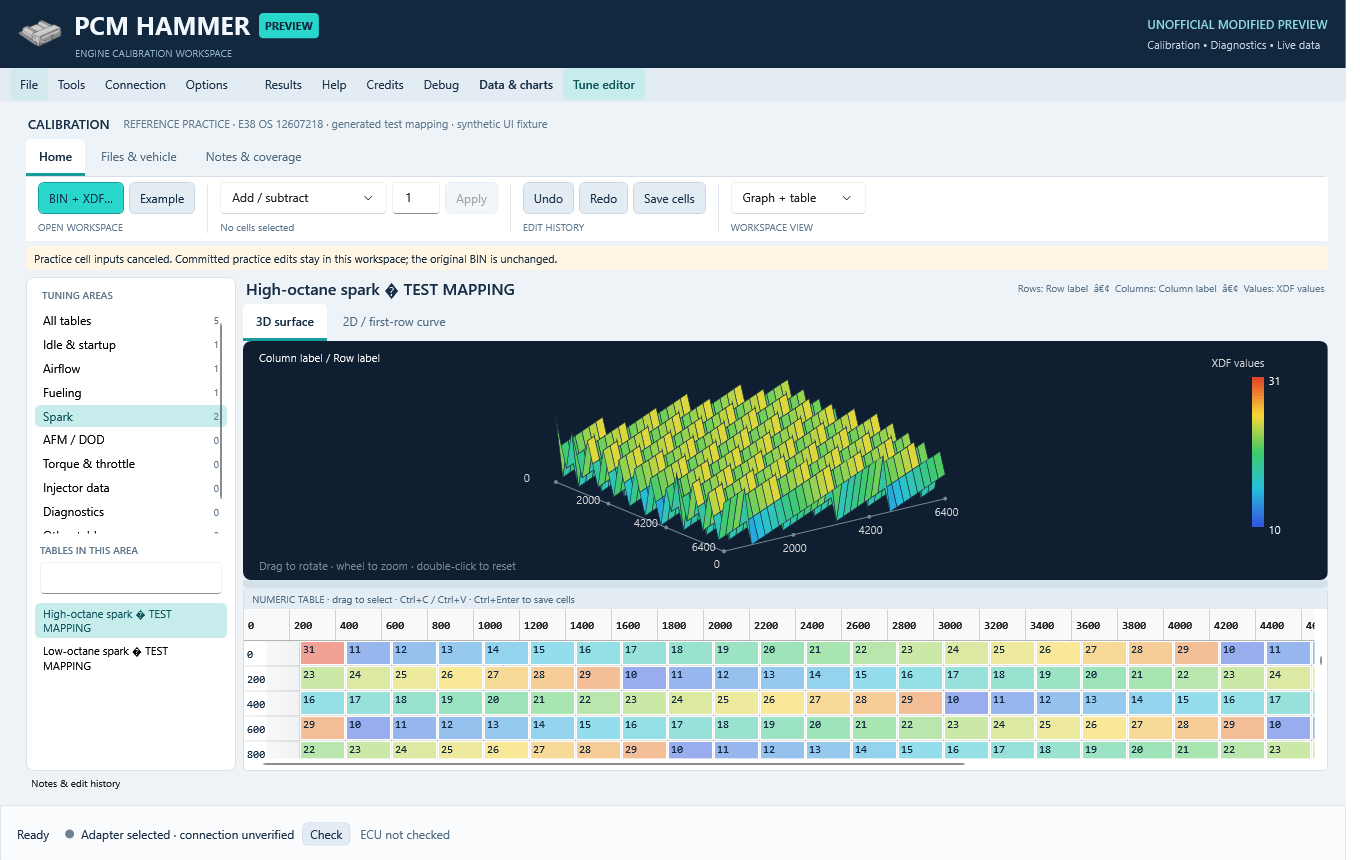
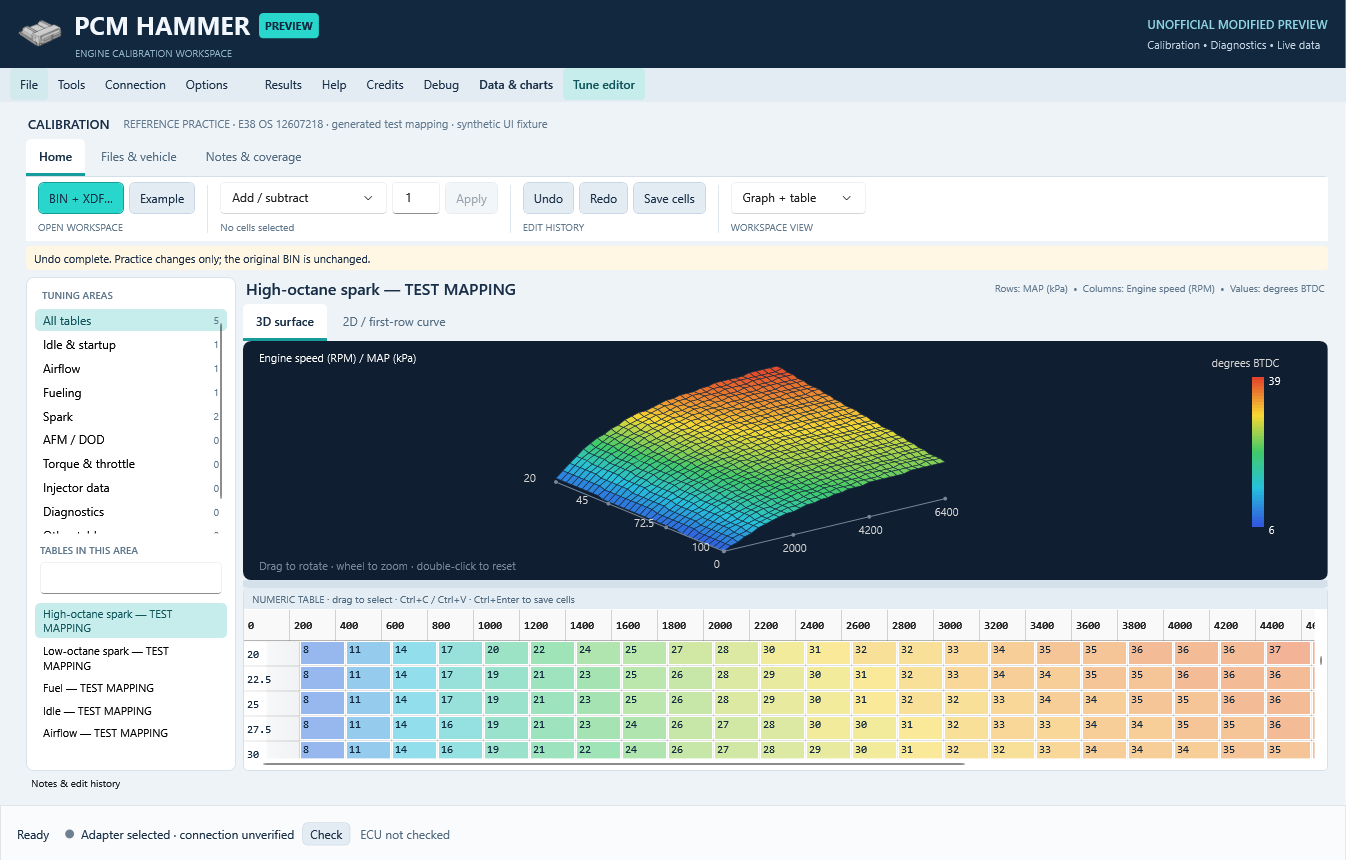
Smooth generated spark previews and refresh workspace screenshot

diff --git a/Apps/LoggingUiChecks/Program.cs b/Apps/LoggingUiChecks/Program.cs
@@ -144,6 +144,7 @@ internal static class Program
                 Check(tune.CanEdit&&!tune.CanExport&&tune.IsDemo,"Demo grid editable with export and apply disabled");
                 string demoOriginal=tune.Cells[0].Text;
                 Check(tune.Surface?.Rows==9&&tune.Surface.Columns==16&&tune.Surface.ColumnLabels[1]=="400"&&tune.Surface.RowLabels[0]=="20","Spark table has RPM and MAP axes and a complete 3D surface");
+                Check(SmoothSpark(tune.Surface!),"Generated spark preview rises smoothly with RPM and decreases with load without repeating peaks");
                 tune.Cells[0].Text="9";tune.CommitCells();
                 Check(tune.Cells[0].Text=="9"&&tune.Journal.Count>0,"Demo edits populate the change journal");
                 tune.Undo();Check(tune.Cells[0].Text==demoOriginal,"Editor Undo restores prior value");
@@ -205,6 +206,7 @@ internal static class Program
                 Check(tune.Fields.Count==5&&tune.Cells.Count==1089&&tune.TableRows.Count==33&&tune.ColumnCount==33,"Synthetic fixture opens five distinct practice entries and starts on the main spark map");
                 Check(tune.TuneIdentity.Contains("12607218")&&tune.CanEdit&&tune.IsReference&&tune.IsDemo&&!tune.CanExport&&!grid.IsReadOnly,"XDF example enables practice cell editing without enabling vehicle Apply or BIN export");
                 Check(tune.Surface?.Values.Length==1089&&tune.Curve.Count==33,"Imported spark data reaches the 3D surface and first-row curve");
+                Check(SmoothSpark(tune.Surface!)&&tune.Surface!.RowLabels[0]=="20"&&tune.Surface.RowLabels[32]=="100"&&tune.Surface.ColumnLabels[32]=="6400","Generated XDF spark preview has a smooth vehicle-like shape and coherent RPM/MAP axes");
                 var high=tune.SelectedField;var highOriginal=tune.Cells[0].Text;
                 tune.SetSelection(new[]{0,1,33,34});tune.SelectedTool="Add / subtract";tune.ToolAmount="1";tune.ApplySelectionTool();
                 Check(tune.Cells[0].Text!=highOriginal&&tune.Journal.Any(n=>n.Contains("Names, axes")),"Bulk practice edits update imported cells while preserving import notes");
@@ -287,19 +289,33 @@ internal static class Program
         var definition=new CalibrationDefinition {Name="Synthetic UI fixture only",Osid=12607218,ImageSize=original.Length,OsSha256=CalibrationEditor.Hash(original,os.Start,os.Length),
             Fields={new CalibrationField {Id="fixture",Name="Synthetic bytes",Address=address,Rows=64,Columns=64,Storage="u8",Minimum=0,Maximum=255}}};
         var editor=new CalibrationEditor(original,definition,new QuietLogger());
-        editor.Edit(editor.Definition.Fields[0],Enumerable.Range(0,4096).Select(i=>(double)(10+i%20)).ToArray(),"Generated test samples");
-        byte[] image=editor.Export();
+        var generated=Enumerable.Range(0,4096).Select(i=>(double)(10+i%20)).ToArray();
         var header=new XElement("XDFHEADER",new XElement("deftitle","12607218 synthetic fixture"),new XElement("BASEOFFSET",new XAttribute("offset","0"),new XAttribute("subtract","0")));
         foreach(var pair in new[]{(0,"Spark"),(1,"Fuel"),(2,"Idle"),(3,"Airflow")})header.Add(new XElement("CATEGORY",new XAttribute("index",pair.Item1),new XAttribute("name",pair.Item2)));
         var root=new XElement("XDFFORMAT",header);int next=address;
-        foreach(var map in new[]{("High-octane spark � TEST MAPPING",33,33,1),("Low-octane spark � TEST MAPPING",33,33,1),("Fuel � TEST MAPPING",33,17,2),("Idle � TEST MAPPING",17,1,3),("Airflow � TEST MAPPING",33,1,4)})
+        foreach(var map in new[]{("High-octane spark — TEST MAPPING",33,33,1),("Low-octane spark — TEST MAPPING",33,33,1),("Fuel — TEST MAPPING",33,17,2),("Idle — TEST MAPPING",17,1,3),("Airflow — TEST MAPPING",33,1,4)})
         {
-            XElement Axis(string id,int count)=>new XElement("XDFAXIS",new XAttribute("id",id),Enumerable.Range(0,count).Select(i=>new XElement("LABEL",new XAttribute("index",i),new XAttribute("value",i*200))));
+            bool spark=map.Item4==1;
+            if(spark)
+                for(int r=0;r<map.Item2;r++)for(int c=0;c<map.Item3;c++)
+                    generated[next-address+r*map.Item3+c]=Math.Round(TuneEditorViewModel.DemoSparkAdvance(c*200,20+80.0*r/(map.Item2-1))-(map.Item1.StartsWith("Low-octane")?4:0));
+            XElement Axis(string id,int count)=>new XElement("XDFAXIS",new XAttribute("id",id),new XElement("units",spark?(id=="x"?"Engine speed (RPM)":"MAP (kPa)"):"Sample index"),Enumerable.Range(0,count).Select(i=>new XElement("LABEL",new XAttribute("index",i),new XAttribute("value",spark&&id=="y"?20+80.0*i/(count-1):i*200))));
             root.Add(new XElement("XDFTABLE",new XElement("title",map.Item1),new XElement("CATEGORYMEM",new XAttribute("index","0"),new XAttribute("category",map.Item4)),Axis("x",map.Item3),Axis("y",map.Item2),
-                new XElement("XDFAXIS",new XAttribute("id","z"),new XElement("EMBEDDEDDATA",new XAttribute("mmedaddress","0x"+next.ToString("X")),new XAttribute("mmedelementsizebits","8"),new XAttribute("mmedtypeflags","0x05"),new XAttribute("mmedrowcount",map.Item2),new XAttribute("mmedcolcount",map.Item3)),new XElement("MATH",new XAttribute("equation","X"),new XElement("VAR",new XAttribute("id","X"))))));
+                new XElement("XDFAXIS",new XAttribute("id","z"),new XElement("EMBEDDEDDATA",new XAttribute("mmedaddress","0x"+next.ToString("X")),new XAttribute("mmedelementsizebits","8"),new XAttribute("mmedtypeflags","0x05"),new XAttribute("mmedrowcount",map.Item2),new XAttribute("mmedcolcount",map.Item3)),new XElement("units",spark?"degrees BTDC":"test values"),new XElement("MATH",new XAttribute("equation","X"),new XElement("VAR",new XAttribute("id","X"))))));
             next+=map.Item2*map.Item3;
         }
-        return(image,root.ToString(),address);
+        editor.Edit(editor.Definition.Fields[0],generated,"Generated test samples");
+        return(editor.Export(),root.ToString(),address);
+    }
+    private static bool SmoothSpark(PCMHammer.Views.SurfaceData data)
+    {
+        for(int r=0;r<data.Rows;r++)for(int c=0;c<data.Columns;c++)
+        {
+            double value=data.Values[r*data.Columns+c];
+            if(c>0&&value<data.Values[r*data.Columns+c-1])return false;
+            if(r>0&&value>data.Values[(r-1)*data.Columns+c])return false;
+        }
+        return true;
     }
     private static void Check(bool condition,string name){if(!condition)throw new Exception("FAIL: "+name);Console.WriteLine("PASS: "+name);}
     private static IEnumerable<T> Find<T>(DependencyObject parent) where T:DependencyObject

diff --git a/Docs/IntegratedWorkspaceValidation.md b/Docs/IntegratedWorkspaceValidation.md
@@ -1,11 +1,11 @@
 # Integrated workspace validation
 
-October 18, 2026. Windows x64 host, .NET SDK 10.0.402. WPF UI target: Windows x86. Tests below were run against the complete proposed host-overhaul branch based on `ac45d15958cfd8591bf0c47ceae9040394e25e2b`.
+October 18, 2026 baseline; interface checks refreshed October 20, 2026. Windows x64 host, .NET SDK 10.0.402. WPF UI target: Windows x86. Tests below were run against the complete proposed host-overhaul branch based on `ac45d15958cfd8591bf0c47ceae9040394e25e2b`.
 
 ## Results
 
 - **470 shared-library tests passed**, zero failed/skipped, through `Apps/ReviewTests/ReviewTests.csproj`.
-- **93 interface checks passed**, followed by the successful suite summary, through `Apps/LoggingUiChecks`. This run used only generated examples and the repository's existing E38 test fixture; no downloaded BIN/XDF pairs were supplied.
+- **95 interface checks passed**, followed by the successful suite summary, through `Apps/LoggingUiChecks`. This run used only generated examples and the repository's existing E38 test fixture; no downloaded BIN/XDF pairs were supplied.
 - The speed-conversion regression was also shown to fail with the original expression: 100 km/h decoded to 60.934 mph rather than 62.137119 mph. It passes after the correction.
 - End-to-end packaging passed using `Package.ps1` with the .NET 10 SDK, followed by installation and post-copy SHA-256 verification in an isolated destination using `-NoShortcuts`. The packaging helper's repository-root path was corrected during this check. Shortcuts and setup layout were additionally exercised during the preceding personal-preview development; they are not a hardware test.
 
@@ -51,3 +51,7 @@ Generated demo recording:
 Generated test mapping, not a vehicle calibration definition:
 
 ![PCM Hammer tuning workspace](IntegratedWorkspace/tuning-workspace.png)
+
+## Spark-preview follow-up — October 20, 2026
+
+Replaced the repeating byte-ramp spark values in the generated XDF fixture with a smooth synthetic RPM/MAP profile; the built-in demo uses the same profile. Its size and the five-entry fixture coverage are unchanged. RPM spans 0–6400 and MAP spans 20–100 kPa in the fixture. Added two interface checks for monotonic timing versus RPM/load and coherent labels. All 95 interface checks passed, including edit/undo guards and missing-area coverage behavior. The tuning screenshot was refreshed from that run. Values remain generated illustrations, not a vehicle calibration.
